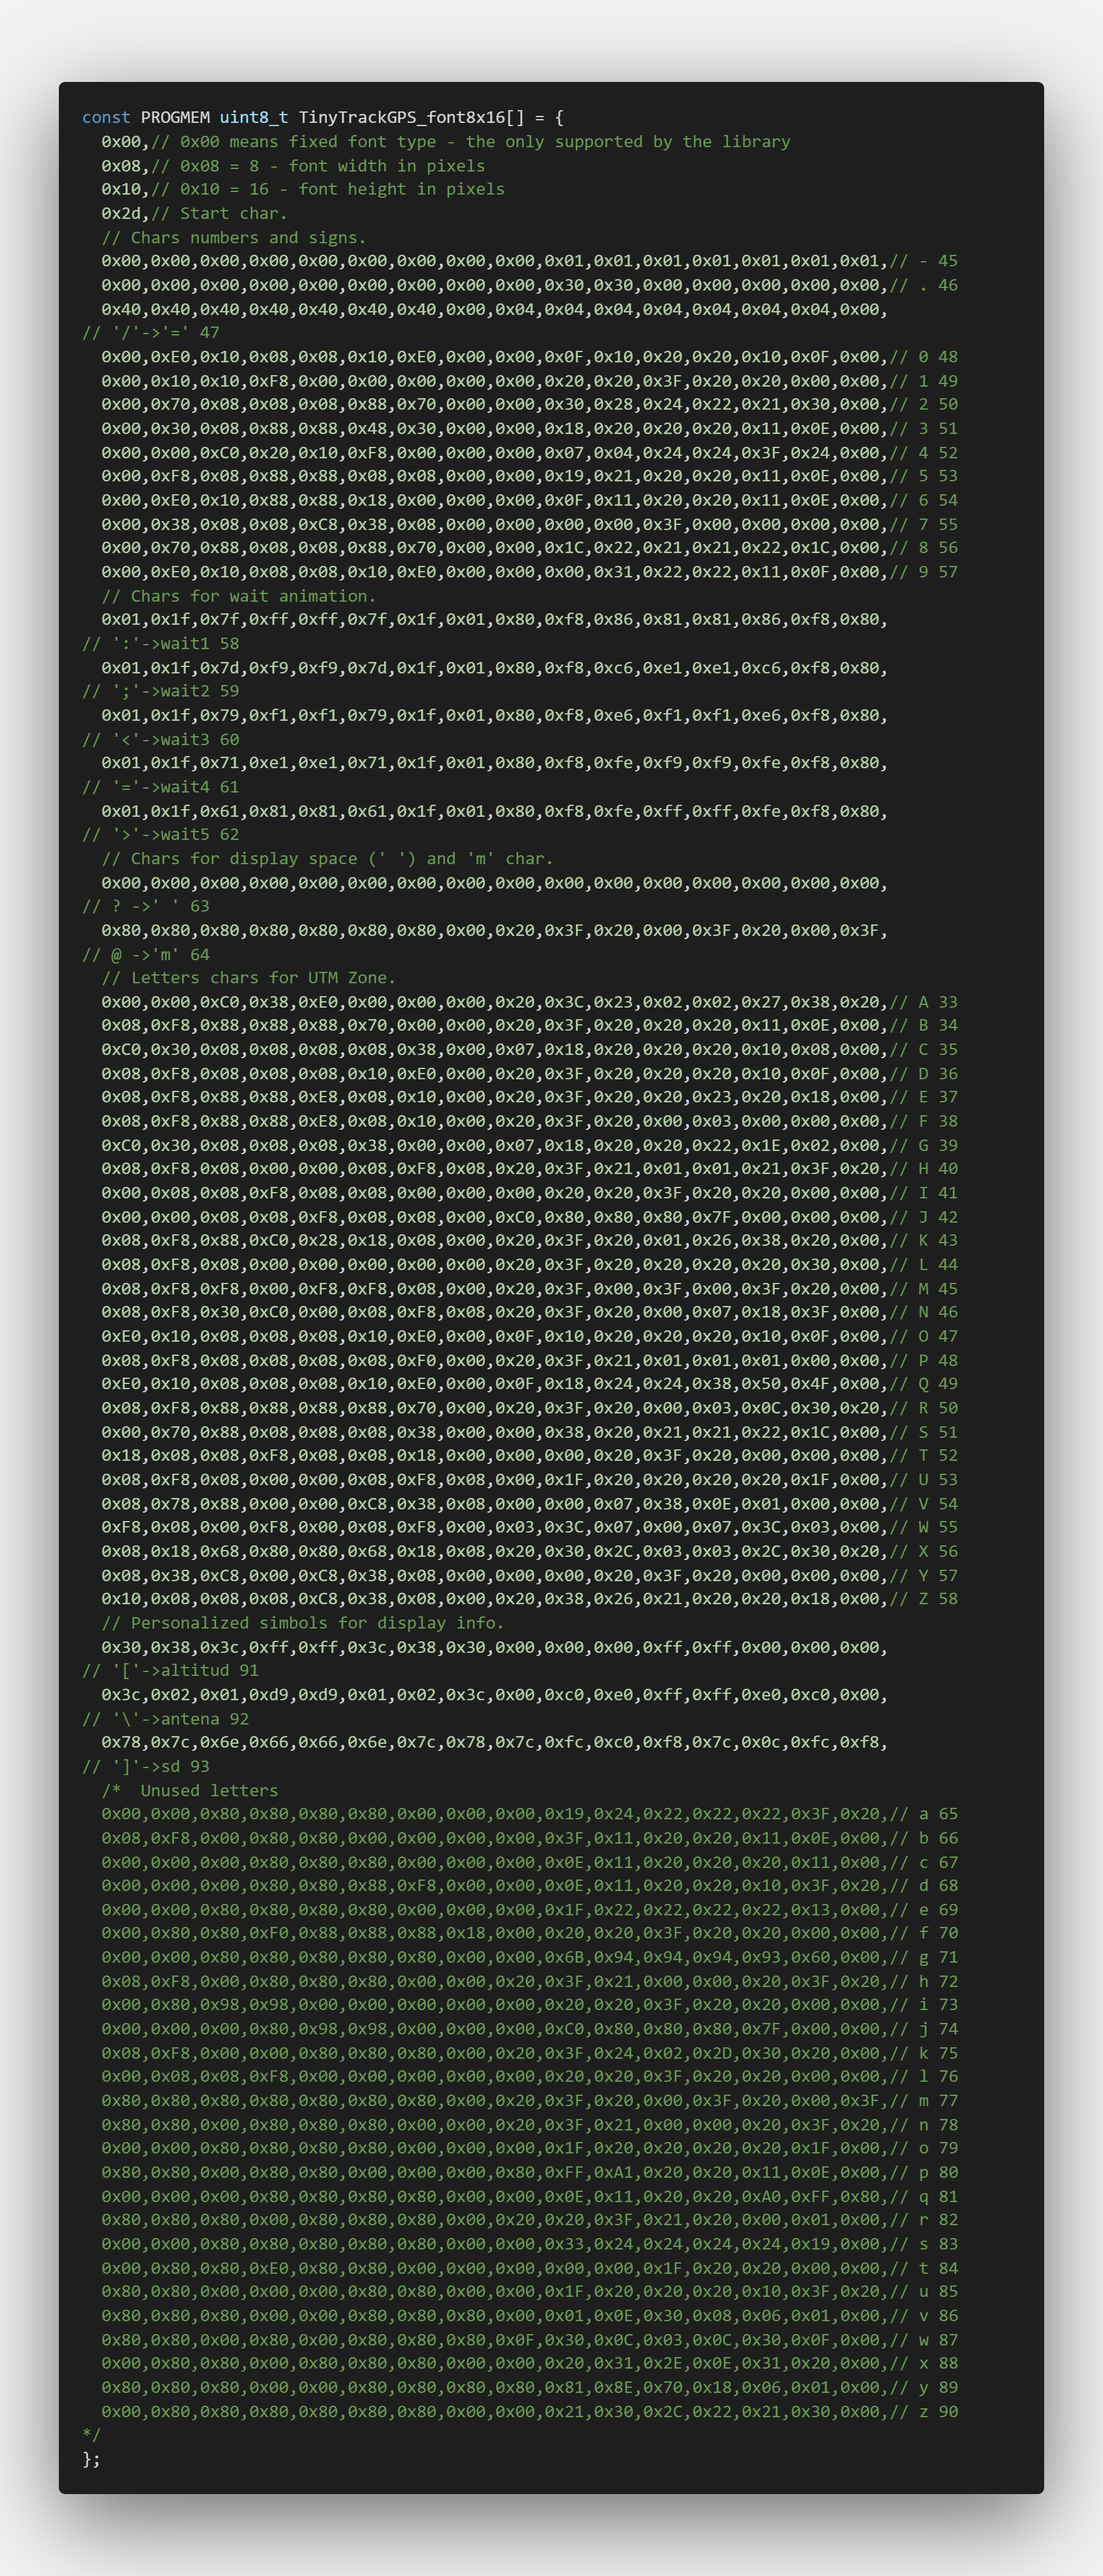
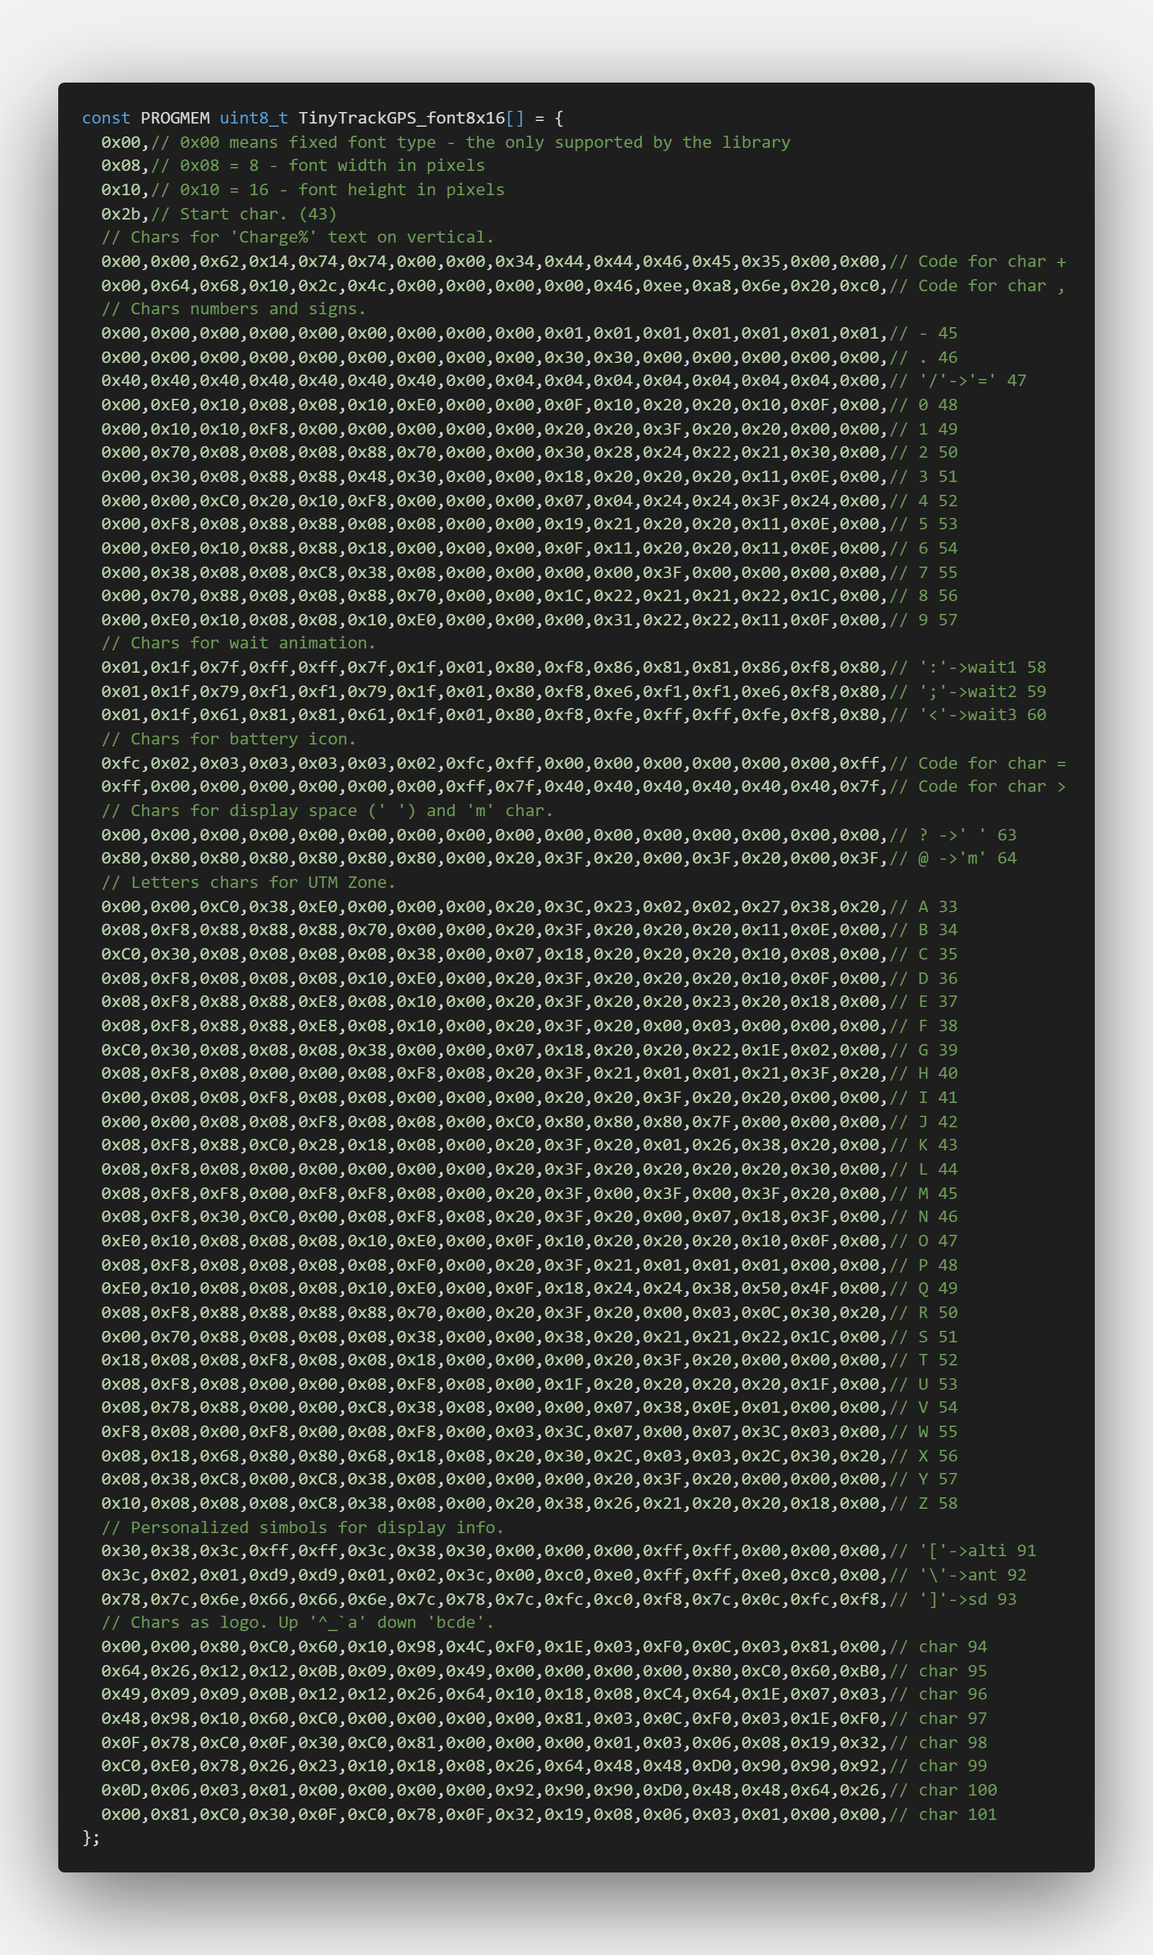
Update V0.12.24

Changed region(s): [[0.0307, 0.0311, 0.953, 0.9954]]

diff --git a/src/TinyTrackGPS.cpp b/src/TinyTrackGPS.cpp
@@ -400,8 +400,8 @@ void setup(void) {
 
   //Serial.print(F("Initializing SD card..."));
 
-  #if defined(__LGT8F__) || defined(__AVR_ATMEGA328P__)
-  SDReady = card.begin(SD_CONFIG);
+  #if defined(__LGT8F__)
+  SDReady = false; //SDReady = card.begin(SD_CONFIG);
   #else
   SDReady = card.begin(SS);
   #endif
@@ -491,8 +491,10 @@ void loop(void) {
 
   charge = charge_level();
 
-  (!card.sdErrorCode()) ? SDReady = true : SDReady = false;
-
+  #if defined(__LGT8F__)
+  (!card.sdErrorCode()) ? SDReady = true : SDReady = card.begin(SD_CONFIG);
+  #endif
+  
   if (gps_ok && (charge>0)) {
     if (utctime > prevtime) {
       SaveOK = GPSData(gps, utm);
@@ -513,6 +515,7 @@ void loop(void) {
 
   #if defined(__LGT8F__)
   LowPower.idle(SLEEP_120MS, ADC_ON, TIMER2_OFF, TIMER1_OFF, TIMER0_OFF, SPI_ON, USART0_ON, TWI_ON);
+  if(!SDReady) card.end();
   #endif
 
   #ifdef NO_DISPLAY

diff --git a/src/config.h b/src/config.h
@@ -26,7 +26,7 @@ rafael.reyes.carmona@gmail.com
 // Definimos nombre aplicación y versión.
 #define NAME "TinyTrackGPS"
 #define NAME_M "TINYTRACKGPS"
-#define VERSION "V0.12.23"
+#define VERSION "V0.12.24"
 
 // Descomentar solo uno de los displays utilizados. Comentar todas las líneas para uso NO DISPLAY.
 //#define DISPLAY_TYPE_SDD1306_128X64 // Para usar pantalla OLED 0.96" I2C 128x64 pixels

diff --git a/README.md b/README.md
@@ -245,96 +245,56 @@ Reference describe unsigned long as : ```Unsigned long variables are extended si
 ### Platformio
 Run command `pio.exe run`.
 ```
-Processing Uno (platform: atmelavr; board: uno; framework: arduino)
--------------------------------------------------------------------------------------------------Verbose mode can be enabled via `-v, --verbose` option
-CONFIGURATION: https://docs.platformio.org/page/boards/atmelavr/uno.html
-PLATFORM: Atmel AVR (3.4.0) > Arduino Uno
-HARDWARE: ATMEGA328P 16MHz, 2KB RAM, 31.50KB Flash
-DEBUG: Current (avr-stub) On-board (avr-stub, simavr)
-PACKAGES:
- - framework-arduino-avr 5.1.0
- - toolchain-atmelavr 1.70300.191015 (7.3.0)
-LDF: Library Dependency Finder -> http://bit.ly/configure-pio-ldf
+Processing LGT_ISP (board: LGT8F328P; framework: arduino; platform: lgt8f)
+------------------------------------------------------------------------------------------------------
+Verbose mode can be enabled via `-v, --verbose` option
+CONFIGURATION: https://docs.platformio.org/page/boards/lgt8f/LGT8F328P.html
+PLATFORM: Logic Green boards (1.0.1) > LGT8F328P
+HARDWARE: ATMEGA328P 32MHz, 2KB RAM, 32KB Flash
+PACKAGES: 
+ - framework-lgt8fx 1.0.6 
+ - toolchain-atmelavr 2.70300.201015 (7.3.0)
+LDF: Library Dependency Finder -> https://bit.ly/configure-pio-ldf
 LDF Modes: Finder ~ chain, Compatibility ~ soft
-Found 14 compatible libraries
+Found 26 compatible libraries
 Scanning dependencies...
 Dependency Graph
 |-- <LiquidCrystal> 1.0.7
-|-- <TinyGPS> 0.0.0-alpha+sha.db4ef9c97a
 |-- <U8g2> 2.28.8
 |   |-- <SPI> 1.0
 |   |-- <Wire> 1.0
-|-- <SdFat> 2.1.0
-|   |-- <SPI> 1.0
 |-- <LiquidCrystal_I2C> 1.1.4
 |   |-- <Wire> 1.0
 |-- <Low-Power> 1.81.0
-|-- <UTMConversion> 1.0.0
+|-- <UTMConversion> 1.0.1
 |-- <Timezone> 1.2.4
 |   |-- <Time> 1.6.1
-|-- <SoftwareSerial> 1.0
+|-- <lcdgfx> 1.1.1
+|   |-- <SPI> 1.0
+|   |-- <Wire> 1.0
+|-- <SdFat> 2.1.2
+|   |-- <SPI> 1.0
+|-- <TinyGPS_GLONASS_fixed>
+|-- <Vcc>
+|   |-- <EMA>
 Building in release mode
-Compiling .pio\build\Uno\src\Display.cpp.o
-Compiling .pio\build\Uno\src\TinyTrackGPS.cpp.o
-Linking .pio\build\Uno\firmware.elf
-Checking size .pio\build\Uno\firmware.elf
+Compiling .pio\build\LGT_ISP\src\TinyTrackGPS.cpp.o
+Linking .pio\build\LGT_ISP\firmware.elf
+Checking size .pio\build\LGT_ISP\firmware.elf
 Advanced Memory Usage is available via "PlatformIO Home > Project Inspect"
-RAM:   [=======   ]  68.6% (used 1404 bytes from 2048 bytes)
-Flash: [========= ]  85.7% (used 27634 bytes from 32256 bytes)
-Building .pio\build\Uno\firmware.hex
-================================== [SUCCESS] Took 3.33 seconds ==================================
+RAM:   [========  ]  84.4% (used 1728 bytes from 2048 bytes)
+Flash: [==========]  99.5% (used 32590 bytes from 32768 bytes)
+==================================== [SUCCESS] Took 5.64 seconds ====================================
+
 Environment    Status    Duration
 -------------  --------  ------------
-Uno            SUCCESS   00:00:03.332
-================================== 1 succeeded in 00:00:03.332 ==================================
+LGT_ISP        SUCCESS   00:00:05.636
+==================================== 1 succeeded in 00:00:05.636 ==================================== 
+
+Las tareas reutilizarán el terminal, presione cualquier tecla para cerrarlo.
 ```
 For upload to Arduino use Platformio enviroment or use `platformio.exe run --target upload` command on terminal. This project use LGT_ISP enviroment by default. To burn it use an LGTISP device as describe in [LGTISP](LGTISP.md).
 
-### Use of memory (Arduino UNO or equivalent) V0.7 vs. V0.9
-#### NO DISPLAY
-Compile V0.7:
-```
-RAM:   [=====     ]  50.3% (used 1031 bytes from 2048 bytes)
-Flash: [=======   ]  70.7% (used 22798 bytes from 32256 bytes)
-```
-Compile V0.9:
-```
-RAM:   [======    ]  58.6% (used 1200 bytes from 2048 bytes)
-Flash: [========  ]  76.7% (used 24748 bytes from 32256 bytes)
-```
-#### LCD 16x2 I2C
-Compile V0.7:
-```
-RAM:   [=======   ]  70.2% (used 1437 bytes from 2048 bytes)
-Flash: [========= ]  86.0% (used 27748 bytes from 32256 bytes)
-```
-Compile V0.9:
-```
-RAM:   [========  ]  79.6% (used 1631 bytes from 2048 bytes)
-Flash: [========= ]  90.2% (used 29100 bytes from 32256 bytes)
-```
-#### LCD 16x2 6-WIRED
-Compile V0.7:
-```
-RAM:   [======    ]  59.2% (used 1213 bytes from 2048 bytes)
-Flash: [========  ]  81.5% (used 26296 bytes from 32256 bytes)
-```
-Compile V0.9:
-```
-RAM:   [=======   ]  68.7% (used 1407 bytes from 2048 bytes)
-Flash: [========= ]  85.7% (used 27646 bytes from 32256 bytes)
-```
-#### OLED 0'96" 128x64 I2C
-Compile V0.7:
-```
-RAM:   [========  ]  79.7% (used 1632 bytes from 2048 bytes)
-Flash: [==========]  96.2% (used 31032 bytes from 32256 bytes)
-```
-Compile V0.9:
-```
-RAM:   [========= ]  85.2% (used 1744 bytes from 2048 bytes)
-Flash: [==========]  99.8% (used 32190 bytes from 32256 bytes)
-```
 ## Changelog
 ### V0.12
   * Added Vcc measure support and display battery level in percent (%), using Vcc library to read VCC supply level without external components.
@@ -343,6 +303,7 @@ Flash: [==========]  99.8% (used 32190 bytes from 32256 bytes)
   * It set minimal VCC level to prevent SD card damage. (3.25V)
   * Change TinyTrackGPS_font8x16[] with new characters to draw battery icon, 'Charge%' text and logo.
   * Fixed "SD" indicator when microSD card is extracted or data is no saved.
+  * Added support for "plug & play" (PnP) functionality of SD Card. 
 
 ### V0.11
   * TinyGPS upgrade for NMEA Data Protocol v3.x and GLONASS. Library from https://github.com/fmgomes/TinyGPS (fixed as describe in _TinyGPS library_ section.)
@@ -721,6 +682,9 @@ I used SoftwareSPI driver as you can see in the example code 'SoftwareSPI.ino':
 
 <img alt="SoftwareSPI example." src="images/code_SoftwareSPI.png" width="760">&nbsp;
 
+When SD card is extracted it is generated an error that can be read with ```card.sdErrorCode()``` function.
+Before write to card it is verified that no error code is return.
+
 ## EMA filter and VCC library
 
 The EMA (exponential moving average) or EWMA (exponentially weighed moving average) is the name for what is probably the easiest realization of the (first-order) low-pass on discrete time-domain data. 
@@ -767,11 +731,11 @@ TinyTrackGPS show this information on display:
 <img alt="TinyTrackGPS display data." src="images/IMG_20211221_124521.jpg" width="240">&nbsp;
 
 
-When VCC level is 3,20 V, stop to read GPS data and only display battery level.
+When VCC level is 3,25 V, stop to read GPS data and only display battery level.
 
 <img alt="Low Batt." src="images/IMG_20211221_174421.jpg" width="240">&nbsp;
 
-
+This video [TinyTRackGPS video](https://www.tiktok.com/@rafaelreyescarmona/video/7045623715593243909?is_from_webapp=1&sender_device=pc&web_id7047961867420141061) show shortly how to make the first prototipe.
 ## License
 
 This file is part of TinyTrackGPS.
